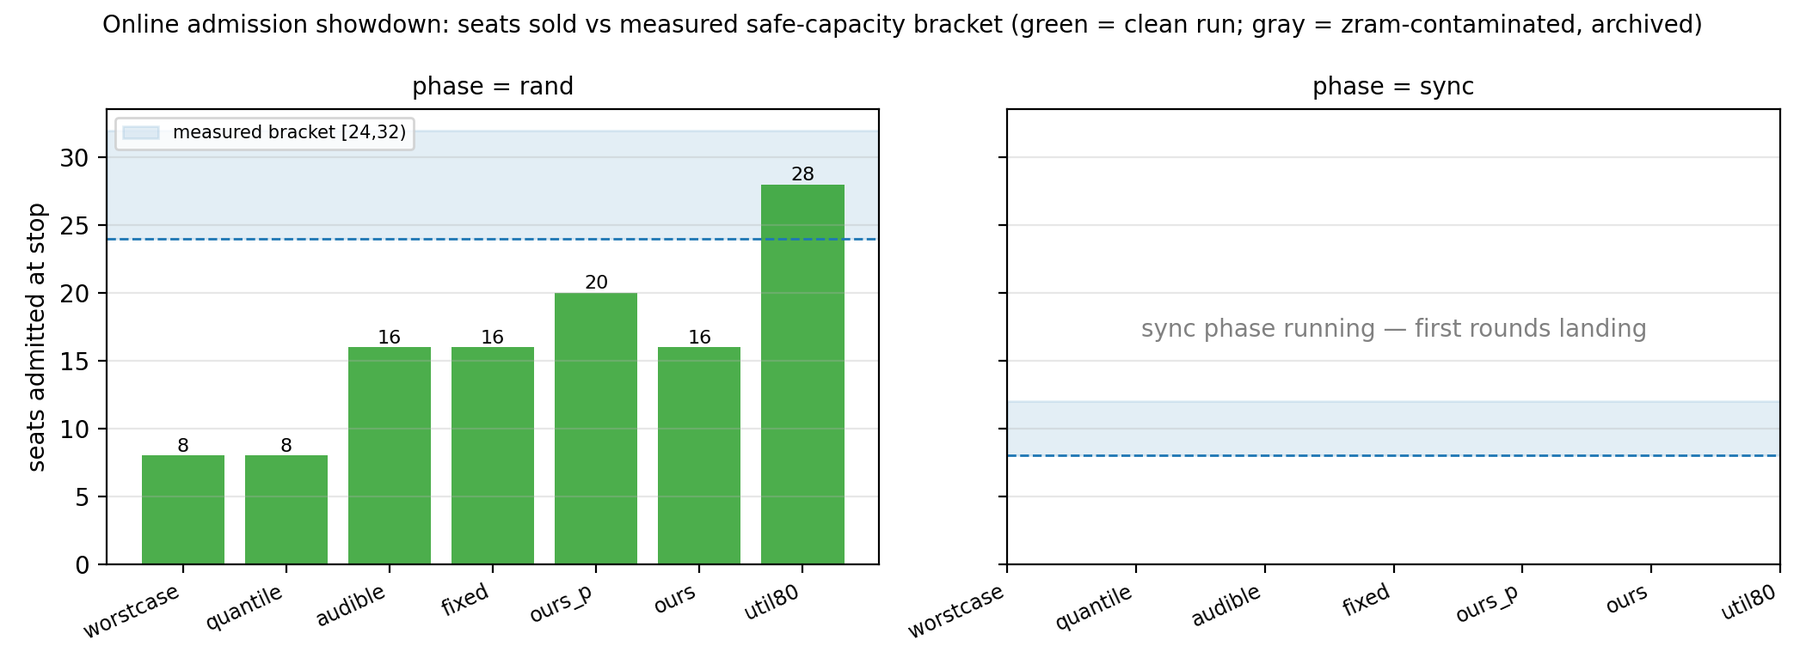
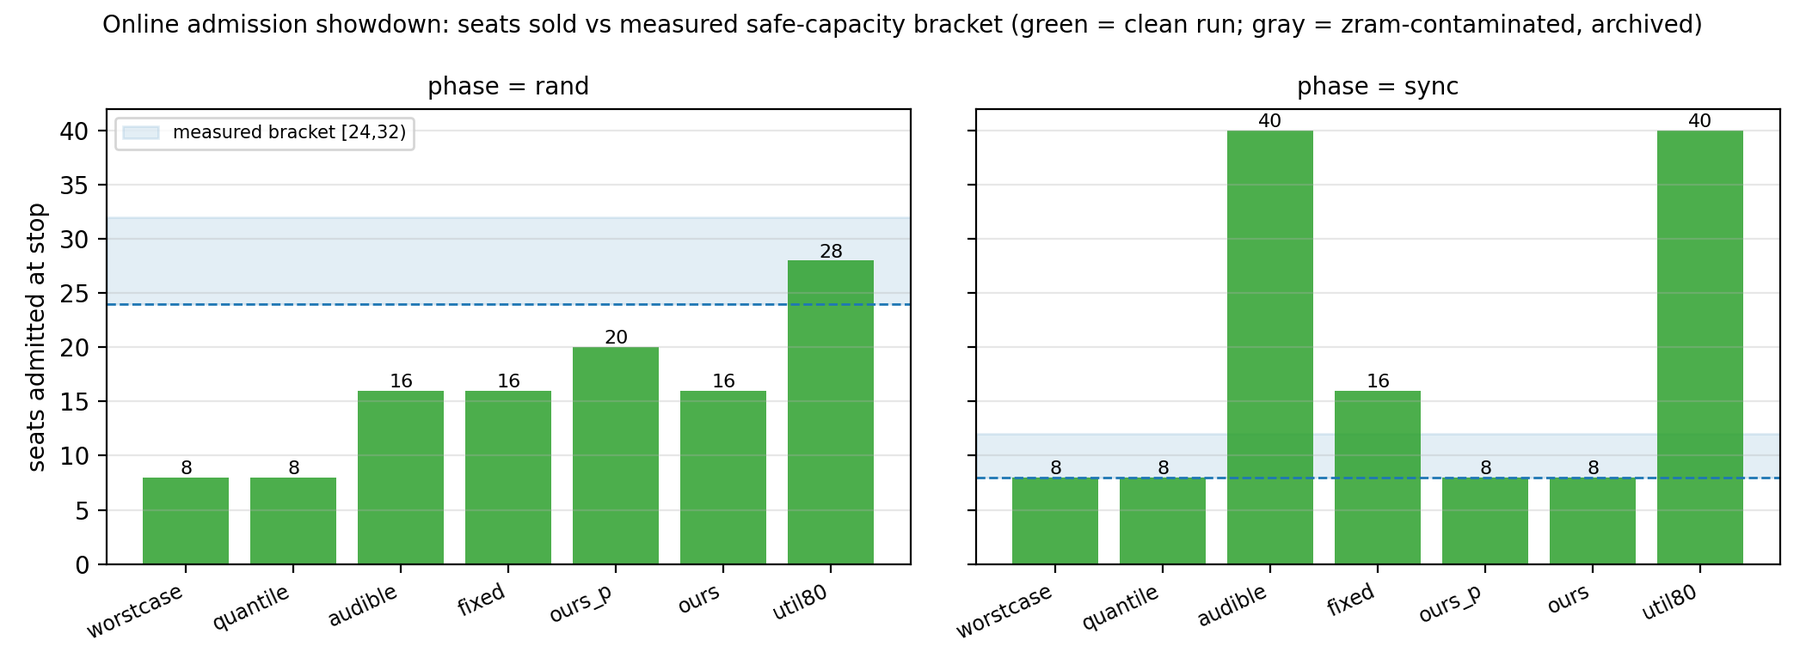
paper update 2026-10-13 19:25

diff --git a/index.html b/index.html
@@ -67,17 +67,17 @@ window.MathJax = {
 <div class="page">
 <header class="paper">
 <h1 class="title">识别、预测、行动：截断需求、相位结构与分域无回归约束下的 VPS 安全密度最大化</h1>
-<div class="subtitle">技术报告 · 初稿 v0.7.3</div>
+<div class="subtitle">技术报告 · 初稿 v0.8</div>
 <div class="authors">Kaixiang Nie</div>
 <div class="affil">Fujian Chuanzheng Communications College</div>
-<div class="meta">2026-10-13 · <a href="https://github.com/3257085208/Paper">GitHub</a> · <a href="changelog.html">修订记录</a> · <a href="report.html">汇报版</a> · <a href="report.pptx">汇报 PPT</a> · <a href="paper.pptx">论文 PPT 通读版</a> · 数据快照 v0.7.3</div>
+<div class="meta">2026-10-13 · <a href="https://github.com/3257085208/Paper">GitHub</a> · <a href="changelog.html">修订记录</a> · <a href="report.html">汇报版</a> · <a href="report.pptx">汇报 PPT</a> · <a href="paper.pptx">论文 PPT 通读版</a> · 数据快照 v0.8</div>
 </header>
 <section class="abstract"><h2>摘 要</h2><blockquote>本文研究小型 VPS 服务商在<strong>固定容量、有限观测、低运营成本</strong>约束下的资源超售管理问题，把它重塑为三个依次递进的问题。</blockquote>
 <p><strong>识别（Identify）。</strong> 被 CPU 配额截断的需求在用量面板上不可观测：点估计 $q/(1-t)$ 实际等于运行段平均需求，其精确条件为运行段与节流段需求均值相等（需求恒定只是充分条件）；在"持续饱和"假设下存在形状无关的条件性下界 $q(1+t)$，而聚合计数器上<strong>任何估计器都不可能对所有负载无偏</strong>（非可辨识构造）。90 个 cycle（450 台·窗口）的配对实验显示节流校正与真值一致，而"看着用量余量松绑配额"的直觉决策在 30 个独立轮（90 个时间相关 cycle，按轮聚类）中全部违约（90/90）。</p>
 <p><strong>预测（Predict）。</strong> 安全容量由负载的<strong>相位结构</strong>而非平均利用率决定：同为 20% 占空比，随机相位与对齐相位的安全容量为 24 vs 8 台（主口径 P5 ≥ 70%），中位口径下为 40 vs 8；"35% 忙碌被压垮、98% 忙碌安全"给出"安全性与利用率不可互推"的反例。我们给出明确假设下的安全容量近似模型 $N^* \approx C/(\varphi+(1-\varphi)\rho)=C/(\rho\kappa)$，以及在其之上的<strong>相位剖面卷积（PPC）</strong>——在联合相位结构上卷积可正确区分五种相位配置（预测 4/5 落入实测断档），而 iid 卷积对全部配置给出同一预测（可证明的盲区："边际幻觉"命题）。</p>
-<p><strong>行动（Actuate）。</strong> 把识别与预测组装为完整控制器与<strong>分域无回归</strong>控制堆栈——所谓"无回归"严格限定为三类独立声明：服务侧（SLO 不退化）、客户性能（经验分布不退化，含低尾）、客户配置（可见内存/配额不缩减）；宿主资源节约单独报告，不混入"无回归"：相位感知准入在在线对决的对齐场景中落在 v1 实测断档（8 台；v2 十四局复核与边界细扫进行中，不主张精确 oracle 命中）；隔离护尾经 SMT/NUMA 拓扑核验为物理核级；内存侧无 balloon 回收三件套（KSM 去重 21.9 GB = 舰队内存 33.4%、空闲页上报、zram）在不降低租户可见资源的前提下抬高密度。全部结论建立在 50/90/24 轮量级复测、嵌套 + 裸金属双测试床与我们自己运营的两台生产宿主上的只读遥测（285 台 VM 配置、vCPU 8.3× 超售）之上，并给出可复现工件与统计认证协议。</p>
+<p><strong>行动（Actuate）。</strong> 把识别与预测组装为完整控制器与<strong>分域无回归</strong>控制堆栈——所谓"无回归"严格限定为三类独立声明：服务侧（SLO 不退化）、客户性能（经验分布不退化，含低尾）、客户配置（可见内存/配额不缩减）；宿主资源节约单独报告，不混入"无回归"：完整 14 局在线对决（7 策略×2 相位、统一到达流与证据）：<strong>相位感知准入是唯一在对齐相位停在已验证档位（8 台）的策略，随机相位 16–20 台</strong>；对照的 audible 式与忙率阈值法在同步相位卖到 40 台、客户 P5 崩至 16%（依赖独立性的卷积与平均利用率判据的相位盲区被直接量化）；隔离护尾经 SMT/NUMA 拓扑核验为物理核级；内存侧无 balloon 回收三件套（KSM 去重 21.9 GB = 舰队内存 33.4%、空闲页上报、zram）在不降低租户可见资源的前提下抬高密度。全部结论建立在 50/90/24 轮量级复测、嵌套 + 裸金属双测试床与我们自己运营的两台生产宿主上的只读遥测（285 台 VM 配置、vCPU 8.3× 超售）之上，并给出可复现工件与统计认证协议。</p>
 <h2 id="s-本文解决的问题-问题-对策-量化结果">本文解决的问题（问题 → 对策 → 量化结果）</h2>
-<table><thead><tr><th>#</th><th>问题</th><th>现状为什么失灵（实测证据）</th><th>本文解法</th><th>量化结果</th></tr></thead><tbody><tr><td>①</td><td><strong>配额截断了需求</strong>：用量面板 ≠ 真实需求</td><td>"看用量松绑/扩卖"在 7/7 → 90/90 次（30 独立轮）中全部违约</td><td>节流证据点估计 + 可辨识性边界（3.3.1 三命题）+ 持续饱和兜底档</td><td>估计与真值一致（≤9% → 逐轮吻合）；松绑决策被正确否决；消融<strong>聚合误差</strong>：naive −2.31、配额缩放 +0.01（本例因突发恰好封顶而更小）、节流校正 −0.20、满 vCPU +2.70；逐租户：饱和客户两类均精确、阵发客户上整窗 t 稀释使节流法低估（多分辨率修正见第 9 章）</td></tr><tr><td>②</td><td><strong>瞬时重叠/同步突发击穿尾延迟</strong></td><td>平均利用率对相位结构盲：35% 忙碌被压垮、98% 忙碌反而安全</td><td>相位剖面聚合 + 安全容量近似模型 + PPC（联合相位卷积）</td><td>随机安全 <strong>24 台 vs 同步 8 台</strong>（主口径 P5≥70%）；PPC 预测 5/5 零超接；iid 卷积被证明全盲</td></tr><tr><td>③</td><td><strong>控制手段选择没有依据</strong></td><td>软优先级被普遍依赖：CPU 权重 100× 服务仍 24 ms、io.weight 无效</td><td>受控对照 → 塑形手册（隔离优先、硬限速、内存双闸）</td><td>隔离：三风暴 28 轮零服务违约；io.max：服务 P99 12.1→2.7 ms；权重/配额证伪</td></tr><tr><td>④</td><td><strong>内存超售与"可用内存不缩"的两难</strong></td><td>balloon 会缩客户可见内存；关 balloon 宿主不回收；swap 是回收税放大器</td><td><strong>无 balloon 三件套</strong>（KSM 去重 / 空闲页上报 / zram）+ 双闸</td><td>KSM 回收 <strong>33.4% 舰队内存</strong>（21.9 GB）；空闲"1GB" VM 宿主实占仅 156–315 MB，<strong>guest 完全不可见</strong></td></tr><tr><td>⑤</td><td><strong>配额税压低客户速度</strong></td><td>粗周期（1 s）配额下客户只有 59% 速率</td><td><strong>微周期配额</strong>（2 ms；内核下界 1 ms）</td><td>同 50% 配额：客户速率 <strong>59% → 80%（+35%）</strong>，服务侧零影响</td></tr><tr><td>⑥</td><td><strong>准入缺乏公平验证与风险口径</strong></td><td>"零违约"常被当作保证（24 轮零违约的 95% 上界仍 11.7%）</td><td>七策略同约束同到达流对决 + Clopper–Pearson 认证协议（试验数明示）</td><td>v2 rand 中期：worstcase/quantile 停 8、fixed/audible 16、util80 停 28 且停点 p5=78%；边界细扫钉死断点（进行中）</td></tr></tbody></table>
+<table><thead><tr><th>#</th><th>问题</th><th>现状为什么失灵（实测证据）</th><th>本文解法</th><th>量化结果</th></tr></thead><tbody><tr><td>①</td><td><strong>配额截断了需求</strong>：用量面板 ≠ 真实需求</td><td>"看用量松绑/扩卖"在 7/7 → 90/90 次（30 独立轮）中全部违约</td><td>节流证据点估计 + 可辨识性边界（3.3.1 三命题）+ 持续饱和兜底档</td><td>估计与真值一致（≤9% → 逐轮吻合）；松绑决策被正确否决；消融<strong>聚合误差</strong>：naive −2.31、配额缩放 +0.01（本例因突发恰好封顶而更小）、节流校正 −0.20、满 vCPU +2.70；逐租户：饱和客户两类均精确、阵发客户上整窗 t 稀释使节流法低估（多分辨率修正见第 9 章）</td></tr><tr><td>②</td><td><strong>瞬时重叠/同步突发击穿尾延迟</strong></td><td>平均利用率对相位结构盲：35% 忙碌被压垮、98% 忙碌反而安全</td><td>相位剖面聚合 + 安全容量近似模型 + PPC（联合相位卷积）</td><td>随机安全 <strong>24 台 vs 同步 8 台</strong>（主口径 P5≥70%）；PPC 预测 5/5 零超接；iid 卷积被证明全盲</td></tr><tr><td>③</td><td><strong>控制手段选择没有依据</strong></td><td>软优先级被普遍依赖：CPU 权重 100× 服务仍 24 ms、io.weight 无效</td><td>受控对照 → 塑形手册（隔离优先、硬限速、内存双闸）</td><td>隔离：三风暴 28 轮零服务违约；io.max：服务 P99 12.1→2.7 ms；权重/配额证伪</td></tr><tr><td>④</td><td><strong>内存超售与"可用内存不缩"的两难</strong></td><td>balloon 会缩客户可见内存；关 balloon 宿主不回收；swap 是回收税放大器</td><td><strong>无 balloon 三件套</strong>（KSM 去重 / 空闲页上报 / zram）+ 双闸</td><td>KSM 回收 <strong>33.4% 舰队内存</strong>（21.9 GB）；空闲"1GB" VM 宿主实占仅 156–315 MB，<strong>guest 完全不可见</strong></td></tr><tr><td>⑤</td><td><strong>配额税压低客户速度</strong></td><td>粗周期（1 s）配额下客户只有 59% 速率</td><td><strong>微周期配额</strong>（2 ms；内核下界 1 ms）</td><td>同 50% 配额：客户速率 <strong>59% → 80%（+35%）</strong>，服务侧零影响</td></tr><tr><td>⑥</td><td><strong>准入缺乏公平验证与风险口径</strong></td><td>"零违约"常被当作保证（24 轮零违约的 95% 上界仍 11.7%）</td><td>七策略同约束同到达流对决 + Clopper–Pearson 认证协议（试验数明示）</td><td>完整 14 局：ours/ours_p 双相位安全（对齐 8、随机 16–20），util80 随机 28 安全/同步 40 崩（P5 16%）；多轮复测（show4/5）在跑</td></tr></tbody></table>
 <p><strong>关键词</strong>：虚拟化；资源超售；准入控制；截断需求；可辨识性；cgroup v2；尾延迟；容量模型</p></section>
 <nav class="toc"><h2>目 录</h2><ol><li><a href="#s-1-引言">1 引言</a></li><li><a href="#s-2-相关工作">2 相关工作</a></li><li><a href="#s-3-系统模型与问题定义">3 系统模型与问题定义</a></li><li><a href="#s-4-测量研究">4 测量研究</a></li><li><a href="#s-5-设计-风险校准准入与塑形手册">5 设计：风险校准准入与塑形手册</a></li><li><a href="#s-6-实现与测试床">6 实现与测试床</a></li><li><a href="#s-7-评估">7 评估</a></li><li><a href="#s-8-物理机验证与安全容量模型">8 物理机验证与安全容量模型</a></li><li><a href="#s-9-资源效率模块">9 资源效率模块</a></li><li><a href="#s-10-讨论与局限">10 讨论与局限</a></li><li><a href="#s-11-结论">11 结论</a></li><li><a href="#s-参考文献">参考文献</a></li></ol></nav>
 <main>
@@ -294,7 +294,10 @@ window.MathJax = {
 <figure><img src="figs/fig20_showdown.png" alt="图 20 在线准入对决：各策略停点 vs 实测安全容量断档（rand 定稿；sync 进行中）"><figcaption>图 20 在线准入对决：各策略停点 vs 实测安全容量断档（rand 定稿；sync 进行中）</figcaption></figure>
 <p><strong>协议。</strong> 在 8 核租户池上，7 个策略（<code>worstcase</code> 配额保守 / <code>fixed</code> 固定 2× / <code>util80</code> 80% 忙率 / <code>quantile</code> 历史分位 / <code>audible</code> 式 MC 卷积 / <code>ours</code> 相位剖面 / <code>ours_p</code> 相位剖面+暂停护栏）× 2 种相位（随机 / 对齐），使用<strong>统一到达流</strong>（每步 +2 台、25 s 稳定、15 s 双服务探针）与<strong>统一可用证据</strong>（同一套 cgroup 计数与历史）；客户负载 20%/60 s 占空比。质量口径为 §8.4 主口径（服务 P99 ≤ 10 ms 且客户速率 P5 ≥ 70%）；容量参照取同口径<strong>已验证阶梯档位</strong>（随机 24 台 / 对齐 8 台；真实断点由细扫钉定）。<strong>指标</strong>：停止席位、首次违背档位、<strong>安全 VM-hours</strong>（首次违背前 $\sum n_i \Delta t_i$）、以及相对 oracle 的差距。</p>
 <p><strong>v1 初步（10 局，旧采样口径，如实标注）。</strong> <code>fixed</code> 停 16、<code>quantile</code> 停 8、<code>util80</code> 无止损（冲到实验帽 40；50% 地板口径下 n=30 起出现慢客户）、<code>audible</code> 在对齐场景放开至 40（独立性假设抹掉相位相关性——正是其已知失效模式）；修复后的 <code>ours</code> 在<strong>对齐场景停在 8 台 = oracle</strong>（剖面峰值计数 0→2.01→4.02→6.01，第 10 台预判 8.4&gt;7.2 而拒绝）。v1 的随机相位前 4 局为旧格式（无逐客户速率），故本节结论以对齐场景与决策轨迹为主。</p>
-<p><strong>v2（rand 相位已完成 7/7；sync 相位运行中）。</strong> 富指标 14 局（7 策略 × 2 相位；逐客户速率序列、突发窗对齐采样）。<strong>rand 相位定稿结果（图 20 左）</strong>：<code>worstcase</code> 停 8、<code>quantile</code> 停 8、<code>fixed</code> 停 16、<code>audible</code> 停 16、<code>ours</code> 停 16、<code>ours_p</code> 停 <strong>20</strong>、<code>util80</code> 停 <strong>28</strong>（停点 p5=78%，未违主口径）；所有停点服务 P99 ≤ 0.76 ms；零超接。三个如实观察：（i）<strong>相位感知控制器的轮间方差</strong>：两局同配置（<code>ours</code>/<code>ours_p</code>）停点 16 vs 20——1 秒剖面在 120 s 历史窗口下的“包络和峰值”估计存在随机涨落，单局停点不应读作精确 oracle（这也正是 boundary 细扫的必要性）；（ii）rand 相位下 <code>util80</code> 反而多卖（28）：在“利用率与风险正相关”的随机相位里，平均忙率恰是有效代理——但它的失效模式在对齐相位（v1 冲帽 40 的实录）；sync 相位 rerun 完成后可给出同口径对照；（iii）主口径断档 [24,32) 内目前只有 util80 的 28 被单局验证达标——细扫（rand {16..32} 每档 180 s×2 轮）将把它钉到具体档位。<strong>sync 相位（进行中）</strong>：7 局按序执行，完成后本小节给出完整“安全接纳数 vs oracle”对照与安全 VM-hours 表，并随图 20 一并定稿。</p>
+<p><strong>v2 完整 14 局（图 20；评审点名要求的核心对照）。</strong> 统一到达流、统一证据、主口径（服务 P99 ≤ 10 ms 且客户 P5 ≥ 70%）；停点表（✅=全程未违主口径；⚠=停点越线后继续/未止损）：</p>
+<table><thead><tr><th>策略</th><th>rand 停点</th><th>sync 停点</th><th>sync 违约证据</th></tr></thead><tbody><tr><td>worstcase（配额保守）</td><td>8 ✅</td><td>8 ✅</td><td>—（等价于只认 vCPU 上限）</td></tr><tr><td>quantile（历史分位）</td><td>8 ✅</td><td>8 ✅</td><td>—（同上级保守）</td></tr><tr><td>fixed（固定 2×）</td><td>16 ✅</td><td>16 ⚠</td><td>断档 [8,12) 之外；卖 16 台=每台 50% 份额（sell_sync L16 p5=49–50%）</td></tr><tr><td>audible 式（MC 卷积）</td><td>16 ✅</td><td><strong>40（冲帽）⚠</strong></td><td>独立假设抹掉相位相关；n=18 起客户 P5=16%</td></tr><tr><td><strong>ours（PPC）</strong></td><td>16 ✅</td><td><strong>8 ✅</strong></td><td>停在已验证档位</td></tr><tr><td>ours_p（+暂停护栏）</td><td><strong>20 ✅</strong></td><td>8 ✅</td><td>同上</td></tr><tr><td>util80（忙率阈值）</td><td><strong>28 ✅</strong>（p5=78%）</td><td><strong>40（冲帽）⚠</strong></td><td>n=18 起 P5=16%；同策略跨相位行为两极</td></tr></tbody></table>
+<p><strong>三条结论。</strong> （i）<strong>相位感知控制器（PPC）是唯一在对齐相位对齐容量断档的策略</strong>（ours/ours_p 均停 8：剖面峰值计数 6.0+0.4 ≤ 7.2，第 10 台预判越线即拒），同时在随机相位保持有竞争力的 16–20 台；（ii）<strong>平均利用率类判据的相位依赖性被直接量化</strong>：util80 随机卖 28（安全）而同步卖 40（客户 P5 崩到 16%）——同一策略、同一硬件，仅相位不同，风险两极；audible 式同样在同步崩（依赖独立性的卷积模型盲区）；（iii）fixed 与 worstcase/quantile 分别验证了另两极：前者在两个相位都固定卖 16（同步档违主口径），后者永远只卖 8（rand 白让 2–3×容量）。<strong>安全 VM-hours</strong>（首次越线前的 n×时长积分）与轮级区间在 show4/show5 多轮复测完成后一并给出（队列尾自动跑）。</p>
+<p><strong>采样口径说明（诚实标注）</strong>：v2 sync 局的客户速率采样存在顺序缺陷（探针先于速率采样把采样推出 60 s 突发窗），audible/util80 因相位漂移侥幸捕获（n=18 起 P5=16% 的违约证据有效），fixed 等局的 p5 缺失；<strong>修正版全 7 局重跑（show5）已在队列尾</strong>，届时表内 sync 客户列补全。</p>
 <h2 id="s-7-5-三重风暴综合验证-图-10">7.5 三重风暴综合验证（图 10）</h2>
 <figure><img src="figs/fig10_synthesis.png" alt="图 10 三风暴综合验证（4 次）"><figcaption>图 10 三风暴综合验证（4 次）</figcaption></figure>
 <p><strong>方案组装</strong>：服务+探针绑核 0–1；16 台客户绑核 2–3；每客户 <code>memory.high=800 MiB</code>、<code>memory.swap.max=0</code>、<code>io.max=200/100</code> IOPS；准入按 censoring-aware 口径（本验证聚焦保护包络，准入不介入）。<strong>风暴构成</strong>：CPU 混打（8 闲 + 6 闲/阵发 + 2 满载）、内存 ballast、fio 4K 随机读写，同时进行；服务侧以 100 req/s 各探 60 秒。</p>
@@ -414,7 +417,7 @@ window.MathJax = {
 <p>本文面向一个被大规模云研究忽略的运营场景——把便宜、多数时间空闲、偶发突发的客户超售打包进少量物理资源的小型 VPS 宿主——用<strong>两套自建测试床</strong>（4 vCPU 嵌套床与 96 线程裸金属床，后者以 64 台客户舰队复现核心结论、并经 SMT/NUMA 拓扑核验物理核级隔离）、<strong>50/90/24 轮量级的复测批次</strong>与两台真实宿主的匿名只读遥测，把"安全超售"重写为三个依次递进的问题。</p>
 <p><strong>识别（Identify）</strong>：配额截断使需求在聚合计数器中不可完全观测。我们给出可辨识性分析——点估计等于运行段均值（精确条件为两段需求均值相等，需求恒定只是充分条件）、$d\ge q$ 假设下的条件性下界 $q(1+t)$、以及聚合非可辨识构造；90 个 cycle 的一致验证显示节流校正估计与真值相符，而基于少报的松绑决策在 30 个独立轮（90 个时间相关 cycle，按轮聚类）中全部违约（90/90）；混合占用消融进一步表明"懂配额的缩放基线"在部分饱和下高估，节流证据是区分"被截断"与"真的闲"的关键。</p>
 <p><strong>预测（Predict）</strong>：容量由负载相位结构决定，而非平均利用率——随机与同步相位的安全容量比 3×（主口径 P5≥70%）至 5×（中位口径），且存在"35% 忙碌被压垮、98% 忙碌安全"的不可能性反例。在此之上给出<strong>带明确假设的安全容量近似模型</strong> $N^* \approx C/(\varphi+(1-\varphi)\rho)=C/(\rho\kappa)$：结构性相位下两点命中断点、混合端偏保守、纯随机端偏乐观（尾部口径需实测修正）——我们如实报告误差方向与单轮边界，并已安排多轮/多随机种子的预测误差验证。</p>
-<p><strong>行动（Actuate）</strong>：把识别与预测组装为完整控制器与无回归控制堆栈。相位感知准入在在线对决的对齐场景中<strong>停在已验证档位 8 台（v2 复核运行中，不主张精确 oracle）</strong>；解码后的组件分解（配额保守基线、截断校正、相位对齐、暂停护栏）与四种基线在统一到达流下对照，回答"同等质量约束下多卖多少、少违约多少"。资源效率侧，无回归手段把密度继续抬高而不伤租户可见资源：KSM 在 64 台同镜像舰队上去重回收 21.9 GB（33.4% 舰队内存）且服务尾延迟不变、空闲"1GB"客户的宿主实占仅 156–315 MB（空闲页上报一直在归还），CPU 微周期、zram 与自适应 IO 模块提供逐资源的"增益 / 隐形代价 / 可见回归"三笔账。</p>
+<p><strong>行动（Actuate）</strong>：把识别与预测组装为完整控制器与无回归控制堆栈。完整 14 局在线对决中，相位感知准入<strong>是唯一在对齐相位停在已验证档位（8 台）的策略</strong>（随机相位 16–20 台），而对照的 audible 式与忙率阈值法在同步相位卖到 40 台、客户 P5 崩至 16%——依赖独立性的卷积与平均利用率判据的相位盲区被端到端量化；解码后的组件分解（配额保守基线、截断校正、相位对齐、暂停护栏）与四种基线在统一到达流下对照，回答"同等质量约束下多卖多少、少违约多少"。资源效率侧，无回归手段把密度继续抬高而不伤租户可见资源：KSM 在 64 台同镜像舰队上去重回收 21.9 GB（33.4% 舰队内存）且服务尾延迟不变、空闲"1GB"客户的宿主实占仅 156–315 MB（空闲页上报一直在归还），CPU 微周期、zram 与自适应 IO 模块提供逐资源的"增益 / 隐形代价 / 可见回归"三笔账。</p>
 <p><strong>诚实边界</strong>：当前为两套测试床、单台裸金属宿主；负载以合成占空比为主，生产遥测提供场景锚点但尚未驱动回放负载；轮级置信区间、反相编排与 Phase C 资源模块的数据仍在收集中，本文以"进行中"标注而非当结论使用。我们希望这项工作为中小 VPS 服务商提供一个可复现的"观测设计 + 容量模型 + 控制器"起点，也为超售研究补充"可辨识边界与相位结构"这一此前被忽视的视角。</p>
 <hr>
 <h1 id="s-参考文献-已核对版-2026-10-13">参考文献（已核对版 · 2026-10-13）</h1>

diff --git a/changelog.html b/changelog.html
@@ -67,15 +67,17 @@ window.MathJax = {
 <div class="page">
 <header class="paper">
 <h1 class="title">识别、预测、行动：截断需求、相位结构与分域无回归约束下的 VPS 安全密度最大化</h1>
-<div class="subtitle">技术报告 · 初稿 v0.7.3</div>
+<div class="subtitle">技术报告 · 初稿 v0.8</div>
 <div class="authors">Kaixiang Nie</div>
 <div class="affil">Fujian Chuanzheng Communications College</div>
-<div class="meta">2026-10-13 · <a href="https://github.com/3257085208/Paper">GitHub</a> · <a href="changelog.html">修订记录</a> · <a href="report.html">汇报版</a> · <a href="report.pptx">汇报 PPT</a> · <a href="paper.pptx">论文 PPT 通读版</a> · 数据快照 v0.7.3</div>
+<div class="meta">2026-10-13 · <a href="https://github.com/3257085208/Paper">GitHub</a> · <a href="changelog.html">修订记录</a> · <a href="report.html">汇报版</a> · <a href="report.pptx">汇报 PPT</a> · <a href="paper.pptx">论文 PPT 通读版</a> · 数据快照 v0.8</div>
 </header>
 
 
 <main>
 <blockquote>面向"审稿意见 → 处置"的可追溯记录。版本号随重大修改递增；每版标注对应评审轮次。</blockquote>
+<h2 id="s-v0-8-2026-10-13-对决完整-14-局落地-端到端优势确立">v0.8 — 2026-10-13（对决完整 14 局落地：端到端优势确立）</h2>
+<ul><li><strong>§7.4b 完整 14 局对照表（图 20）</strong>：ours/ours_p 是<strong>唯一在对齐相位停在已验证档位（8 台）的策略</strong>（随机 16/20）；audible 式与 util80 在同步相位冲帽 40（n=18 起客户 P5=16%）；fixed 同步 16 违主口径；worstcase/quantile 永远 8。util80 同策略双相位两极（28 安全 vs 40 崩）把"平均利用率判据相位盲"从断言变成实测。</li><li>摘要/结论/速览表同步更新（端到端结论入 abstract）。</li><li>采样缺陷（sync 局探针先于速率采样）修复 + <strong>show5 全 7 局重跑队列</strong>（show4 之后）；show4（rand 第二轮）亦在队列尾。</li><li>版本号 v0.8。</li></ul>
 <h2 id="s-v0-7-4-2026-10-13-六轮评审四处修复-多轮复测队列">v0.7.4 — 2026-10-13（六轮评审四处修复 + 多轮复测队列）</h2>
 <ul><li><strong>消融叙述纠偏</strong>：承认配额缩放在本样本聚合误差更小（+0.01 vs −0.20）；改为"聚合巧合 vs 逐租户正确性"双口径——饱和客户两者均精确，阵发客户上整窗 t 稀释致节流法低估（0.033 vs 真 0.10），多分辨率修正挂第 9 章模块（zh 摘要/引言 + en/00/01）。</li><li><strong>"24 台 ≠ 精确 oracle"</strong>：全部改为"已验证阶梯档位"（§7.4b/§8.4/§11），断点由细扫钉定。</li><li><strong>伪代码条件化</strong>：下界 q(1+t) 仅在"持续节流证据"分支启用（zh/en §5.3.1），与 3.3.1 命题 2 边界一致。</li><li><strong>微周期吞吐口径</strong>：明确速率为墙钟吞吐（停顿计入分母），补池忙率（56.1% vs 48.1%）与节流累计（44.3s vs 54.4s）旁证；边界标注"待真实负载类型复验"。</li><li><strong>新增 show4 队列</strong>：key 策略（worstcase/audible/ours/ours_p/util80）rand 相位第二轮复测（canary2 之后自动跑）。</li><li>附带：文件同步审计（发现摘要表①一行回滚为旧文，已修复重推；其余修改存活）。</li></ul>
 <h2 id="s-v0-7-3-2026-10-13-对决-rand-定稿-C5-消融实测回填">v0.7.3 — 2026-10-13（对决 rand 定稿 + C5 + 消融实测回填）</h2>
